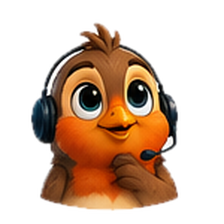
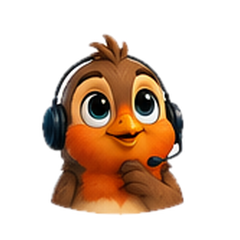
Quality: the Robin sticker is bigger, tilted, with a thicker die-cut border
Claude-Session: https://claude.ai/code/session_012M7VyTwRVnFWxWToTyjm9V

Changed region(s): [[0.125, 0.0938, 0.8125, 0.9375]]

diff --git a/projects/robin-experiment/broker/public/survey/index.html b/projects/robin-experiment/broker/public/survey/index.html
@@ -371,13 +371,13 @@
     font:inherit; background:none; border:0; padding:0; cursor:pointer; }
   .askfab[hidden]{ display:none; }
   /* A die-cut sticker of her head: transparent around her, a white border, a soft shadow. */
-  .askfab-i{ width:80px; height:80px; display:block; filter:drop-shadow(0 8px 14px rgba(0,0,0,.28)); transition:transform .15s ease, filter .15s ease; }
-  .askfab:hover .askfab-i, .askfab:focus-visible .askfab-i{ transform:translateY(-3px) scale(1.05) rotate(-3deg); filter:drop-shadow(0 12px 18px rgba(0,0,0,.32)); }
+  .askfab-i{ width:96px; height:96px; display:block; transform:rotate(7deg); filter:drop-shadow(0 8px 14px rgba(0,0,0,.28)); transition:transform .15s ease, filter .15s ease; }
+  .askfab:hover .askfab-i, .askfab:focus-visible .askfab-i{ transform:translateY(-3px) scale(1.05) rotate(-2deg); filter:drop-shadow(0 12px 18px rgba(0,0,0,.32)); }
   .askfab[aria-expanded="true"] .askfab-i{ filter:drop-shadow(0 0 0 2px var(--accent)) drop-shadow(0 8px 14px rgba(0,0,0,.28)); }
   .askfab:focus-visible{ outline:none; }
   .askpanel-who{ display:inline-flex; align-items:center; gap:11px; }
   .askface{ width:46px; height:46px; display:block; transition:opacity .15s; }
-  .askpanel{ position:fixed; right:22px; bottom:112px; z-index:60; width:min(420px,calc(100vw - 32px)); max-height:min(70vh,640px);
+  .askpanel{ position:fixed; right:22px; bottom:126px; z-index:60; width:min(420px,calc(100vw - 32px)); max-height:min(70vh,640px);
     overflow-y:auto; background:var(--paper); color:var(--ink); border:1px solid var(--ink); box-shadow:0 14px 40px rgba(0,0,0,.22); padding:16px 18px 20px; }
   .askpanel[hidden]{ display:none; }
   .askpanel-h{ display:flex; align-items:center; justify-content:space-between; gap:12px; padding-bottom:10px; border-bottom:2px solid var(--ink); }
@@ -393,7 +393,7 @@
     .c7,.c5,.c6{ grid-column:span 12; }
   }
   @media (max-width:560px){
-    .tile{ grid-column:span 12; } .xt{ font-size:.74rem; } .askfab{ right:14px; bottom:14px; } .askfab-i{ width:66px; height:66px; } .askpanel{ right:14px; bottom:88px; }
+    .tile{ grid-column:span 12; } .xt{ font-size:.74rem; } .askfab{ right:14px; bottom:14px; } .askfab-i{ width:84px; height:84px; } .askpanel{ right:14px; bottom:106px; }
     .ask-form{ flex-direction:column; } .ask-form button{ padding:12px; }
     .fun .row{ grid-template-columns:96px 1fr 36px; }
   }
@@ -480,7 +480,7 @@
 </div>
 
 <button class="askfab" id="askfab" type="button" aria-expanded="false" aria-controls="askpanel" aria-label="Ask Robin about the data" hidden>
-  <img class="askfab-i" id="askfabface" src="robin/happy.png" alt="" width="80" height="80" title="Ask the data">
+  <img class="askfab-i" id="askfabface" src="robin/happy.png" alt="" width="96" height="96" title="Ask the data">
 </button>
 <div class="askpanel" id="askpanel" role="dialog" aria-label="Ask a question about the survey data" hidden>
   <div class="askpanel-h">
